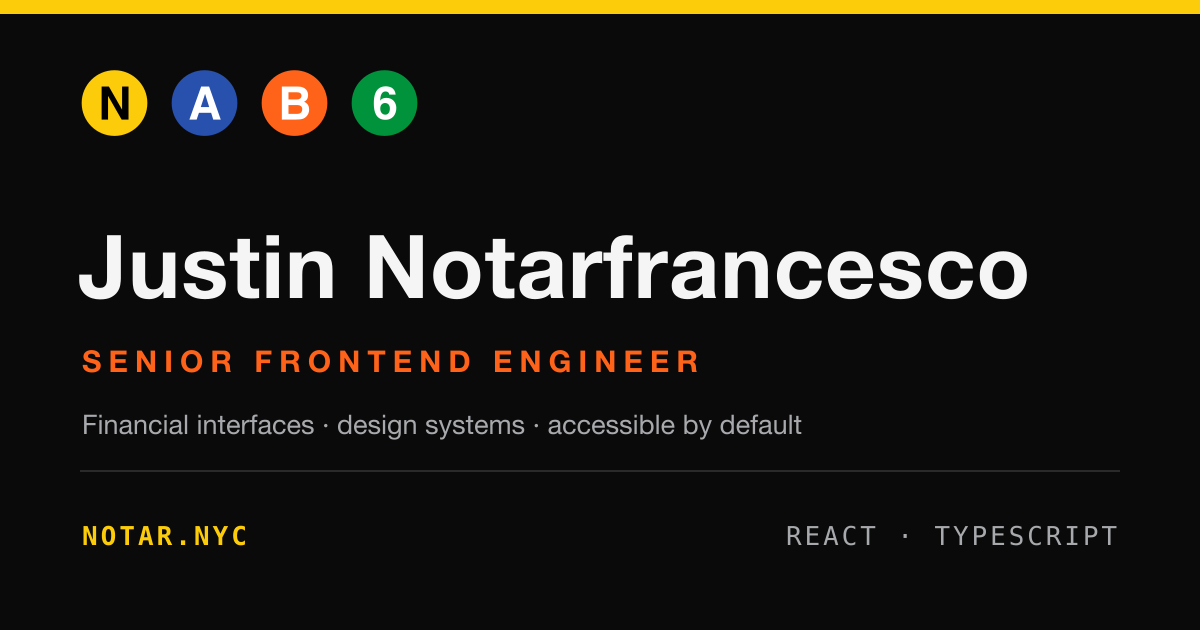
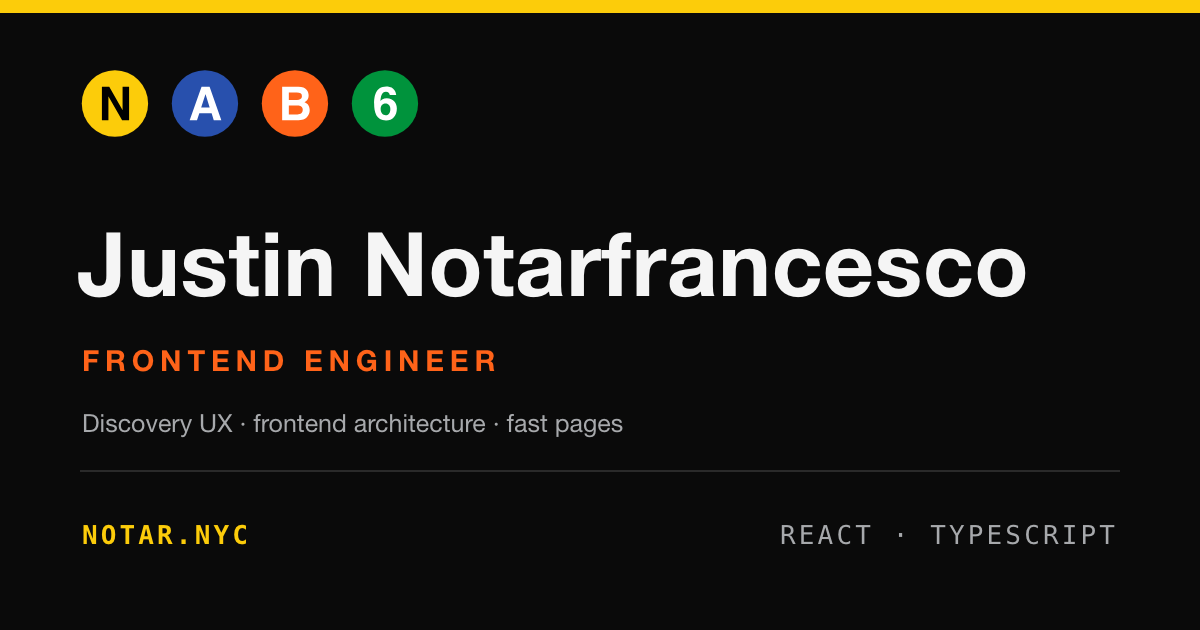
Retitle to Frontend Engineer and rewrite career copy as a teaser
Replace "Senior Frontend Engineer" with "Frontend Engineer" across nav,
footer, hero, meta, OG alt, JSON-LD, llms.txt, README, and a rebuilt
og.png. Drop scale claims and "financial interfaces," lead with discovery
UX and performance, align the skills list with real experience, and frame
side projects (including Idle) as things built to learn.

diff --git a/src/lib/schema.ts b/src/lib/schema.ts
@@ -13,7 +13,7 @@ export const PERSON = {
   name: 'Justin Notarfrancesco',
   url: SITE_URL,
   image: `${SITE_URL}/og.png`,
-  jobTitle: 'Senior Frontend Engineer',
+  jobTitle: 'Frontend Engineer',
   worksFor: {
     '@type': 'Organization',
     name: 'JPMorgan Chase',
@@ -29,13 +29,13 @@ export const PERSON = {
   ],
   knowsAbout: [
     'Frontend engineering',
-    'Financial interfaces',
+    'Search and discovery UX',
+    'Frontend architecture',
+    'Web performance',
     'Design systems',
     'TypeScript',
     'React',
-    'Web accessibility (WCAG)',
-    'Data visualization',
-    'Web performance',
+    'Web accessibility',
   ],
 };
 

diff --git a/src/content/projects/idle.md b/src/content/projects/idle.md
@@ -1,6 +1,6 @@
 ---
 title: "idle"
-description: "Treasury automation for startups: T-bill ladders, maker-checker transfer controls, and a to-the-cent ledger priced from live U.S. Treasury rates, with an interactive demo where every rate is real and every cent is accounted for."
+description: "A demo of treasury software for startups, built to practice money math: T-bill ladders, maker-checker transfer controls, and a to-the-cent ledger priced from live U.S. Treasury rates. Every rate is real and every cent is accounted for."
 techStack: ["Next.js", "TypeScript", "Zustand", "Vitest + fast-check", "Playwright"]
 liveUrl: "https://idle-woad.vercel.app"
 repoUrl: "https://github.com/justin-notarfrancesco/idle"
@@ -15,12 +15,11 @@ order: 3
 
 ## Overview
 
-I've spent five years building financial UI at JPMorgan Chase, where the money is real
-and the tooling had decades of institutional weight behind it. Idle brings that
-discipline to the other end of the market: idle cash is a silent expense (checking
-earns next to nothing while T-bills pay real yield), so Idle gives startups T-bill
-ladders, maker-checker transfer controls, and a to-the-cent ledger. The site runs an
-interactive demo for a sample company, Meridian Robotics: SOFR, the effective fed
+I built Idle to practice the kind of frontend where every cent has to reconcile. Idle
+cash is a quiet expense (checking earns next to nothing while T-bills pay real yield),
+so the demo imagines treasury software for a startup: T-bill ladders, maker-checker
+transfer controls, and a to-the-cent ledger. It runs for a sample company, Meridian
+Robotics: SOFR, the effective fed
 funds rate, and T-bill auction results stream in live from FRED and Treasury
 FiscalData, while the ledger and bank connection are simulated in the browser.
 

diff --git a/README.md b/README.md
@@ -1,6 +1,6 @@
 # 🚇 notar.nyc
 
-**Justin Notarfrancesco — Senior Frontend Engineer, New York City**
+**Justin Notarfrancesco — Frontend Engineer, New York City**
 
 A personal portfolio built as a working demonstration of a design system — not just a place to host a static bio page.
 
